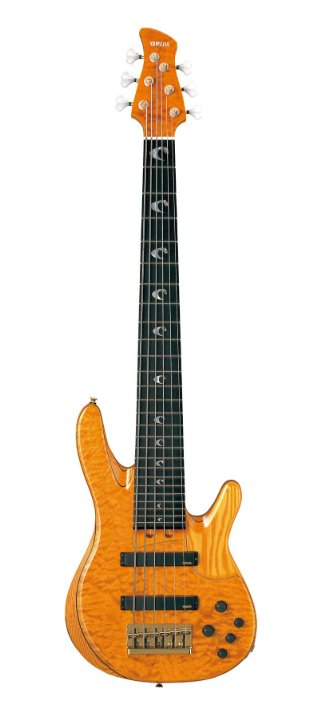
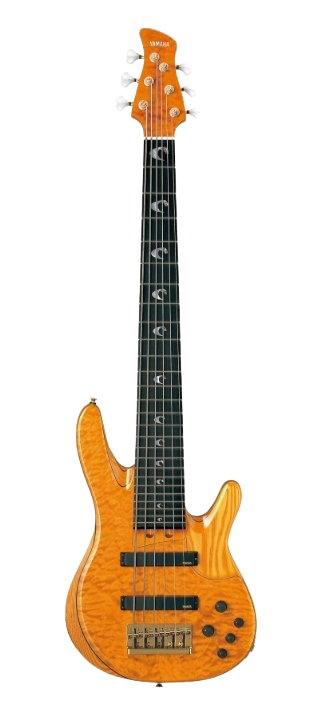
Add files via upload

diff --git a/gear.html b/gear.html
@@ -281,7 +281,7 @@ footer a:hover{color:var(--accent);background:#1a1a1a}
       </div>
     </div>
     <div class="guitar-card">
-      <div class="guitar-card-photo"><img src="images/jaguar.jpg" alt="Squier Jaguar Bass"></div>
+      <div class="guitar-card-photo"><img src="images/jaguar.png" alt="Squier Jaguar Bass"></div>
       <div class="guitar-card-body">
         <span class="gear-card-tag tag-bass">4-String Electric Bass</span>
         <div class="guitar-card-name">Squier Classic Vibe Jaguar Bass</div>
@@ -316,7 +316,7 @@ footer a:hover{color:var(--accent);background:#1a1a1a}
       </div>
     </div>
     <div class="guitar-card">
-      <div class="guitar-card-photo"><img src="images/fs720s.jpg" alt="Yamaha FS720S"></div>
+      <div class="guitar-card-photo"><img src="images/fs720s.png" alt="Yamaha FS720S"></div>
       <div class="guitar-card-body">
         <span class="gear-card-tag tag-acoustic">Acoustic Guitar</span>
         <div class="guitar-card-name">Yamaha FS 720S BL</div>
@@ -337,7 +337,7 @@ footer a:hover{color:var(--accent);background:#1a1a1a}
   <div class="gear-section" id="keys">
     <div class="gear-section-title">🎹 Keys</div>
     <div class="guitar-card">
-      <div class="guitar-card-photo"><img src="images/casio-cps85.jpg" alt="Casio CPS-85"></div>
+      <div class="guitar-card-photo"><img src="images/casio-cps85.png" alt="Casio CPS-85"></div>
       <div class="guitar-card-body">
         <span class="gear-card-tag tag-keys">Digital Piano</span>
         <div class="guitar-card-name">Casio CPS-85 Digital Piano</div>
@@ -358,7 +358,7 @@ footer a:hover{color:var(--accent);background:#1a1a1a}
     <div class="gear-section-title">🎛 Pedalboard &amp; Power</div>
     <div class="gear-grid">
       <div class="gear-card">
-        <div class="gear-card-photo"><img src="images/stompbox.jpg" alt="ENO Stompbox"></div>
+        <div class="gear-card-photo"><img src="images/stompbox.png" alt="ENO Stompbox"></div>
         <div class="gear-card-body">
           <span class="gear-card-tag tag-power">Pedalboard</span>
           <div class="gear-card-name">ENO MUSIC Stompbox Medium</div>
@@ -368,7 +368,7 @@ footer a:hover{color:var(--accent);background:#1a1a1a}
         </div>
       </div>
       <div class="gear-card">
-        <div class="gear-card-photo"><img src="images/power_supply_station.jpg" alt="Vivlex Power Station"></div>
+        <div class="gear-card-photo"><img src="images/power_supply_station.png" alt="Vivlex Power Station"></div>
         <div class="gear-card-body">
           <span class="gear-card-tag tag-power">Power Supply</span>
           <div class="gear-card-name">Vivlex Pedal Power Station</div>
@@ -386,7 +386,7 @@ footer a:hover{color:var(--accent);background:#1a1a1a}
     <div class="gear-grid">
 
       <div class="gear-card" id="aby">
-        <div class="gear-card-photo"><img src="images/coolswitchpro.jpg" alt="ART CoolSwitch Pro"></div>
+        <div class="gear-card-photo"><img src="images/coolswitchpro.png" alt="ART CoolSwitch Pro"></div>
         <div class="gear-card-body">
           <span class="gear-card-tag tag-pedal">Switcher</span>
           <div class="gear-card-name">ART CoolSwitch Pro</div>
@@ -397,7 +397,7 @@ footer a:hover{color:var(--accent);background:#1a1a1a}
       </div>
 
       <div class="gear-card" id="dapper">
-        <div class="gear-card-photo"><img src="images/bass_effect_pedal.jpg" alt="Valeton Dapper Bass"></div>
+        <div class="gear-card-photo"><img src="images/bass_effect_pedal.png" alt="Valeton Dapper Bass"></div>
         <div class="gear-card-body">
           <span class="gear-card-tag tag-pedal">Bass FX</span>
           <div class="gear-card-name">Valeton Dapper Bass</div>
